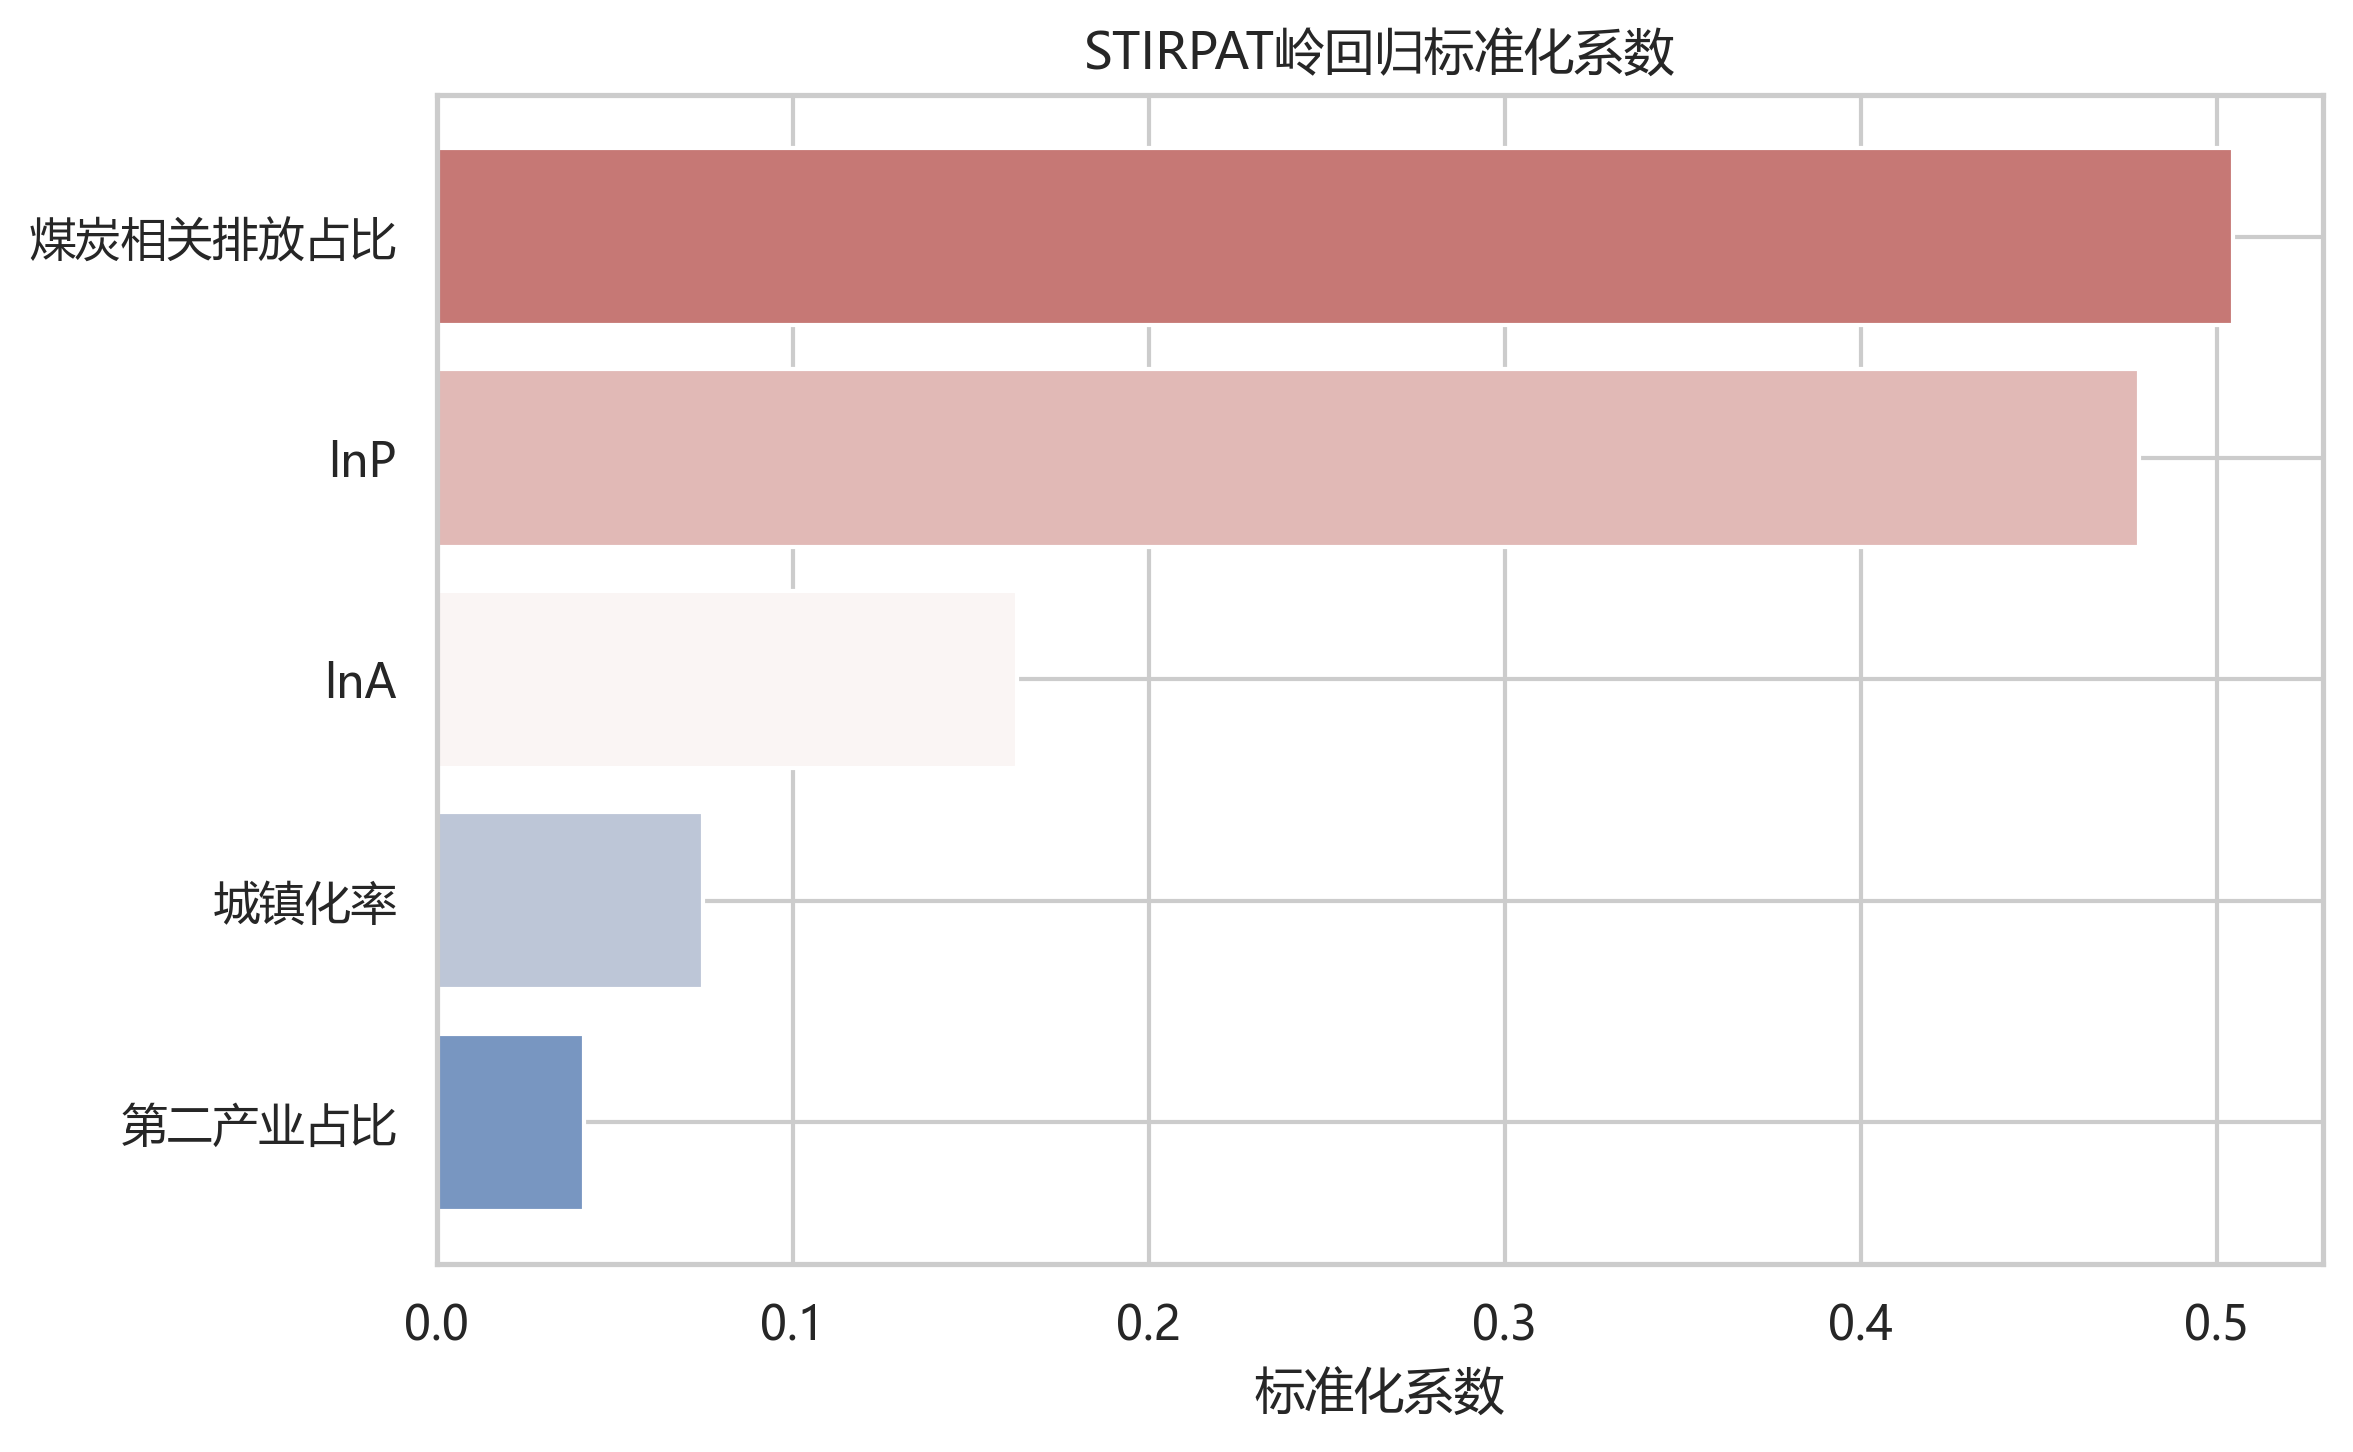
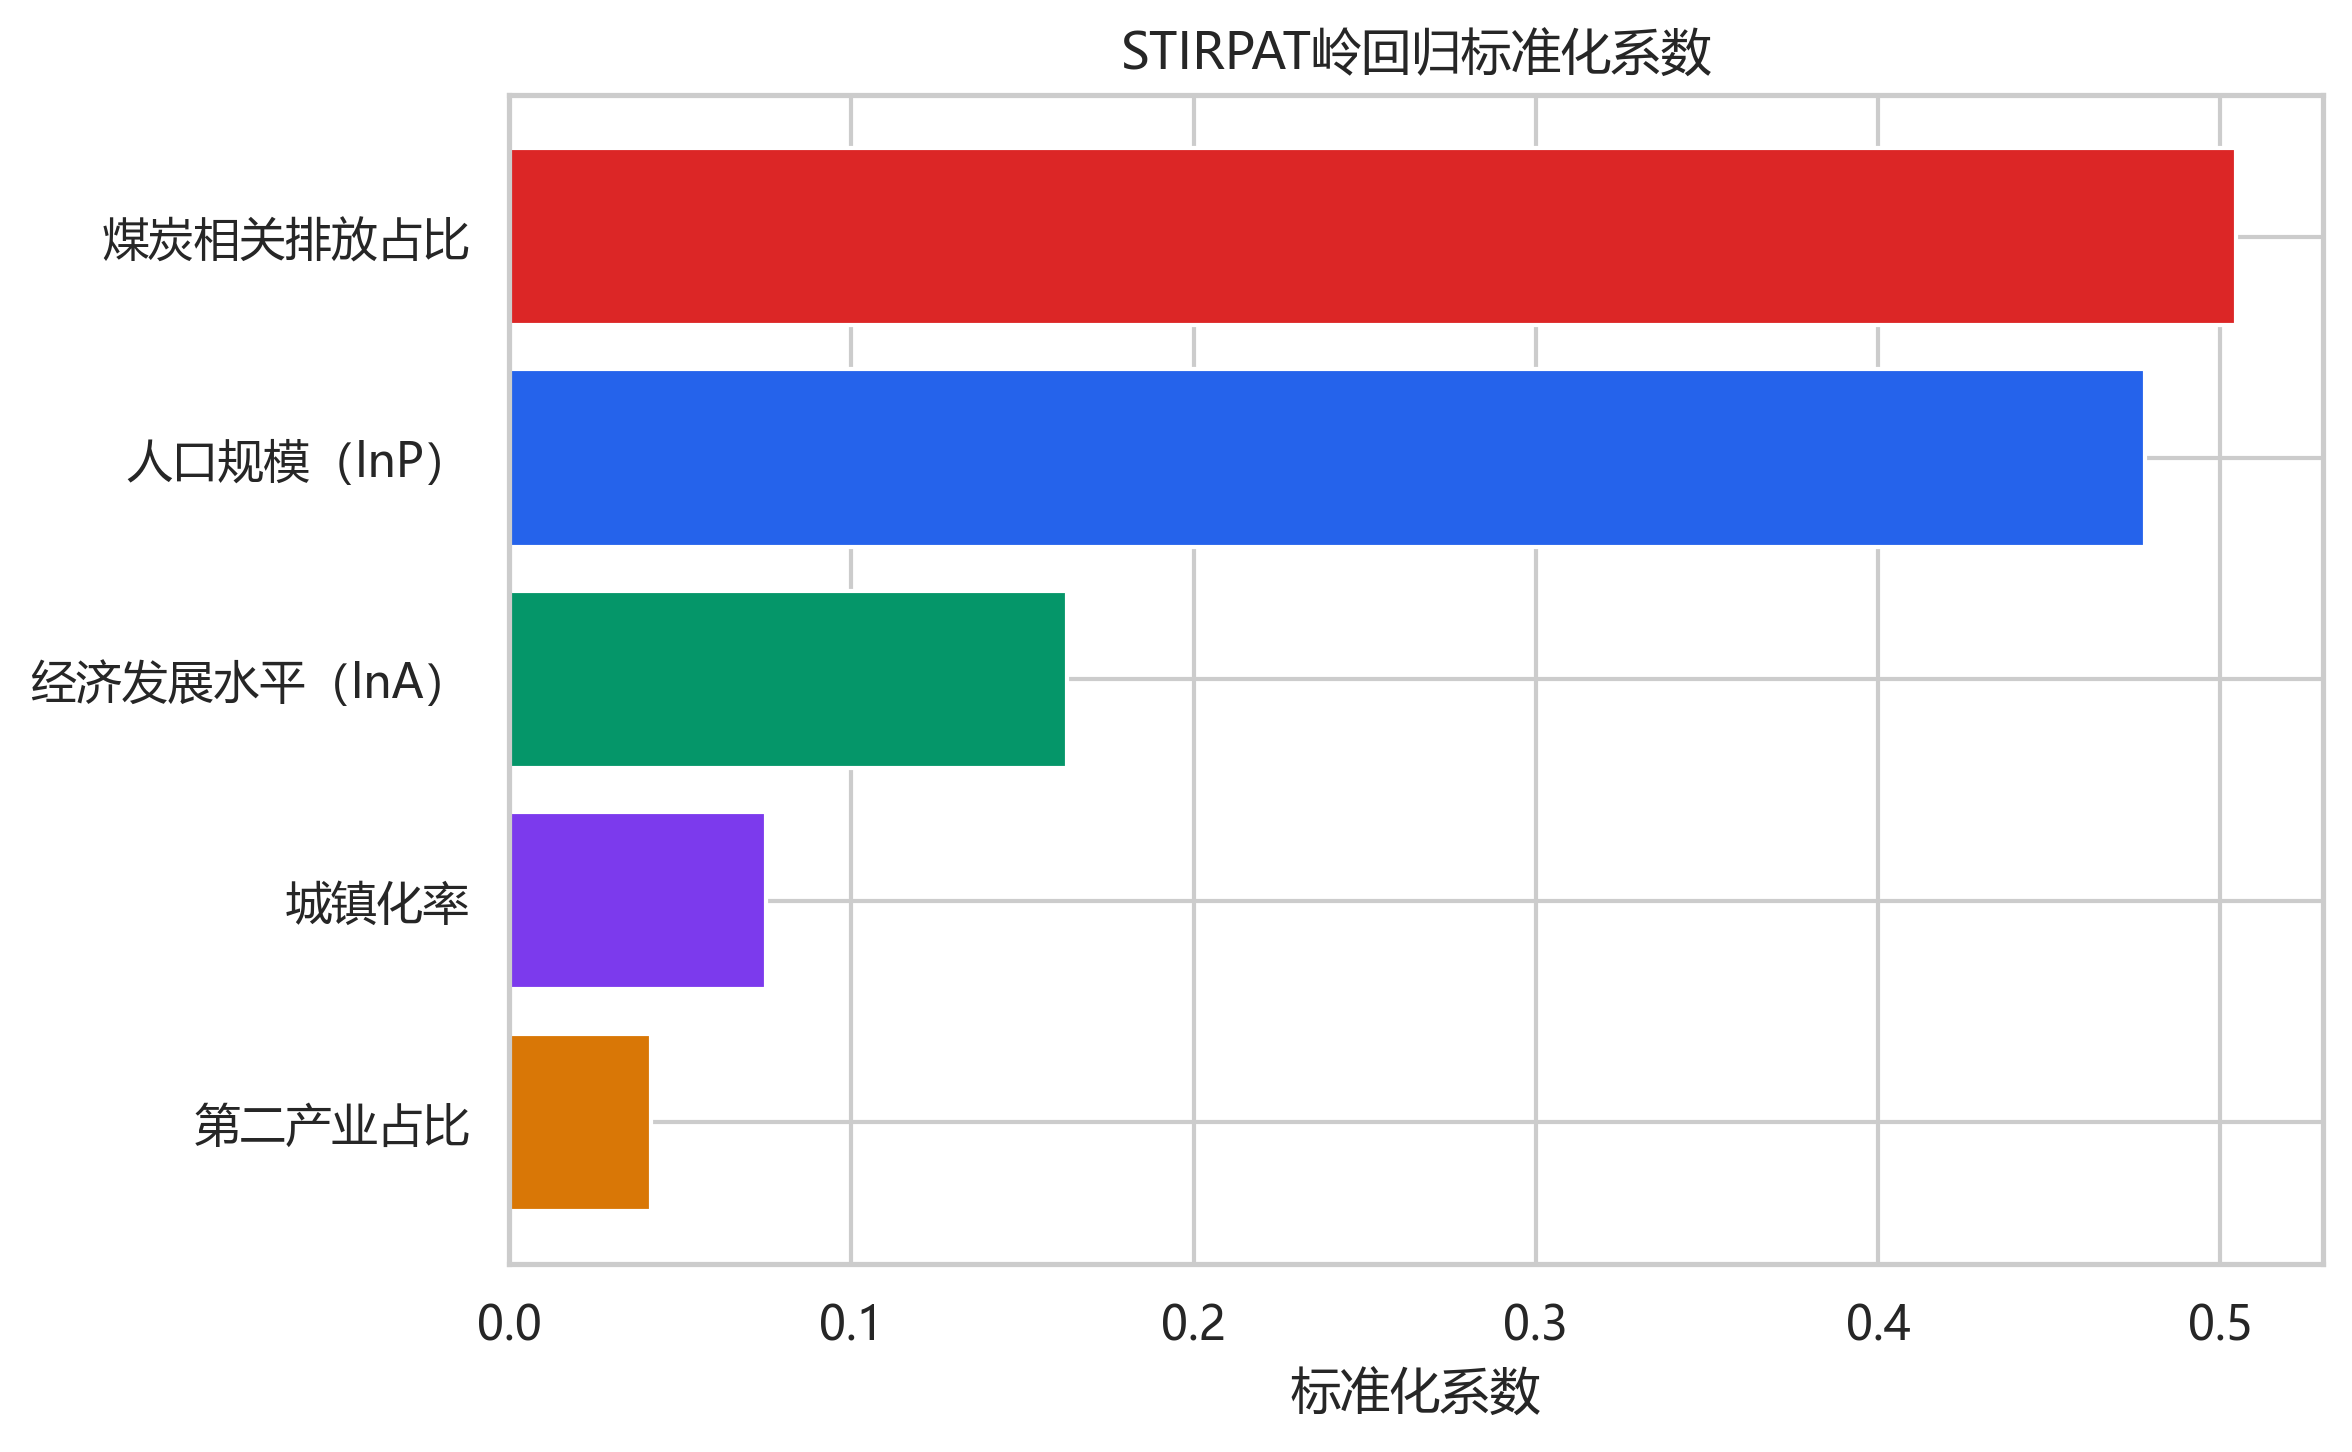
线性回归图

diff --git a/3.代码/问题二/solve_problem2.py b/3.代码/问题二/solve_problem2.py
@@ -140,8 +140,24 @@ def run_problem_two(province: pd.DataFrame) -> dict[str, pd.DataFrame]:
 
 def make_problem_two_figures(problem_two: dict[str, pd.DataFrame]) -> None:
     ridge_coef = problem_two["ridge_coef"].sort_values("标准化岭回归系数")
+    variable_labels = {
+        "lnP": "人口规模（lnP）",
+        "lnA": "经济发展水平（lnA）",
+        "煤炭相关排放占比": "煤炭相关排放占比",
+        "第二产业占比": "第二产业占比",
+        "城镇化率": "城镇化率",
+    }
+    variable_colors = {
+        "lnP": "#2563EB",
+        "lnA": "#059669",
+        "煤炭相关排放占比": "#DC2626",
+        "第二产业占比": "#D97706",
+        "城镇化率": "#7C3AED",
+    }
+    ridge_coef["变量说明"] = ridge_coef["变量"].map(variable_labels).fillna(ridge_coef["变量"])
+    bar_colors = ridge_coef["变量"].map(variable_colors).fillna("#4B5563")
     fig, ax = plt.subplots(figsize=(8, 5))
-    ax.barh(ridge_coef["变量"], ridge_coef["标准化岭回归系数"], color=sns.color_palette("vlag", len(ridge_coef)))
+    ax.barh(ridge_coef["变量说明"], ridge_coef["标准化岭回归系数"], color=bar_colors)
     ax.axvline(0, color="#333333", linewidth=1)
     ax.set_title("STIRPAT岭回归标准化系数")
     ax.set_xlabel("标准化系数")
